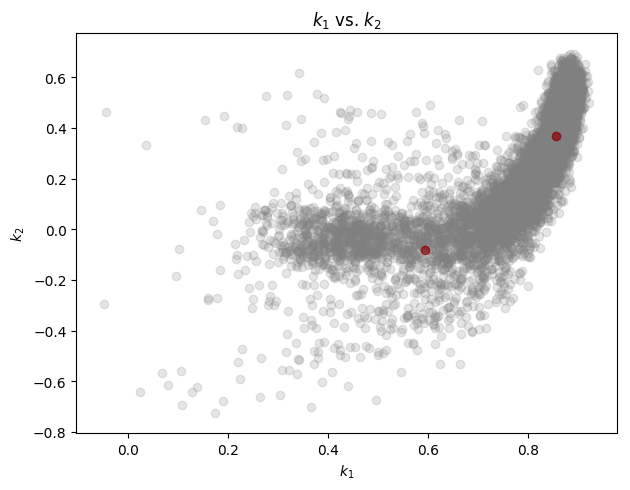
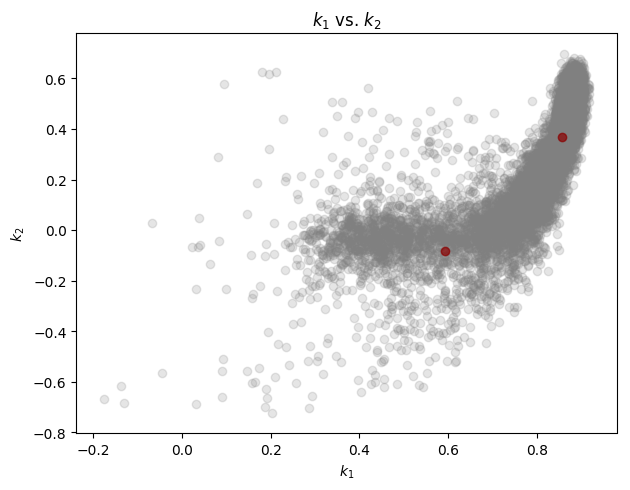
rerun MARS_20161221_000046_SongSession_16kHz_HPF5Hz

diff --git a/MARS_20161221_000046_SongSession_16kHz_HPF5Hz/README.md b/MARS_20161221_000046_SongSession_16kHz_HPF5Hz/README.md
@@ -3,6 +3,8 @@
     532M ~/Downloads/MARS_20161221_000046_SongSession_16kHz_HPF5Hz/MARS_20161221_000046_SongSession_16kHz_HPF5Hz.wav
  
 is located outside of this repository.
+This sound has a 50 Db amplification (using Audicity) wrt to the one provided.
+
 Also, the generated data is for the moment *not* included in the repo; 
 only included are the resulting plots as referenced in this page. 
  
@@ -24,6 +26,18 @@ only included are the resulting plots as referenced in this page.
 Plot general evaluation:
 
     $ cb.plot_evaluation.py data/codebooks/_/eps_0.0005.rpt.csv
+           M  passes     DDprm          σ       inertia
+    0      2       9  0.386237   1.258410  2.628891e+06
+    1      4      11  0.287822   2.472050  2.102332e+06
+    2      8      17  0.233958   3.860611  1.814950e+06
+    3     16      18  0.200205   5.168959  1.664952e+06
+    4     32      18  0.171203   7.026399  1.554185e+06
+    5     64      14  0.151517   8.694152  1.488529e+06
+    6    128      17  0.137004  10.754301  1.444406e+06
+    7    256      15  0.126080  12.613927  1.412817e+06
+    8    512      14  0.117340  14.281844  1.388907e+06
+    9   1024      14  0.109883  15.773080  1.369188e+06
+    10  2048      14  0.103179  17.328352  1.351842e+06
 
 ![](cb_evaluation.png)    
 
@@ -78,9 +92,10 @@ M=512:
 
 ![](cb_kk_training_8000_codebook_512.png)
 
-Similar reflection coefficient inspection but now with 3 coefficients:
+Similar reflection coefficient inspection but now with 3 coefficients,
+and with the M=1024 codebook:
     
-    $ prd.show -k -r 1-3 data/predictors/_/HBSe_20170128T231621.prd > data/predictors/_/HBSe_20170128T231621.prd.kkk.csv
+    $ prd.show -k -r 1-3 data/predictors/MARS_20161221_000046_SongSession_16kHz_HPF5Hz/MARS_20161221_000046_SongSession_16kHz_HPF5Hz.prd > kkk.csv
     
     $ cb.show -r 1-3 data/codebooks/_/eps_0.0005_M_1024.cbook > data/codebooks/_/eps_0.0005_M_1024.cbook.kkk.csv
     
